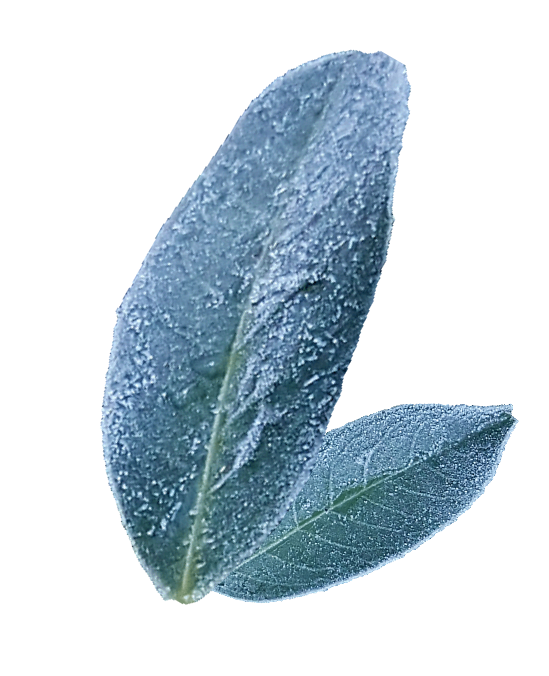
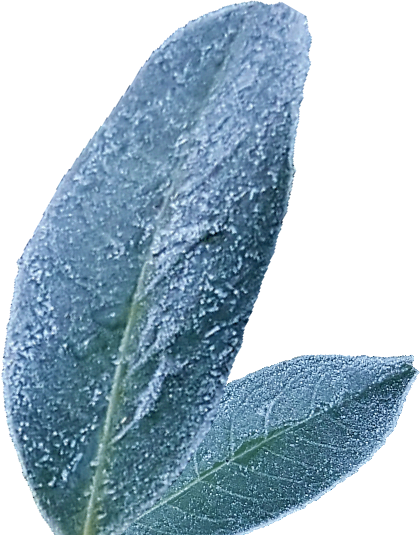
close

diff --git a/index.css b/index.css
@@ -60,6 +60,27 @@ article{
     margin-bottom: 5vh;
 }
 
+/*~~Decor~~*/
+.side{
+    display: flex;
+    flex-direction: row;
+    flex-wrap: nowrap;
+    align-items: flex-end;
+    justify-content: space-between;
+}
+
+.sideL{
+    display: block;
+    left: -80px;
+    position: relative;
+}
+
+.sideR{
+    display: block;
+    right: -80px;
+    position: relative;
+}
+
 /*~~~ Places ~~~*/
 
 #places{
@@ -229,6 +250,10 @@ textarea{
         margin-bottom: 6vw;
         margin-top: 0;
         padding: 5vw;
+    }
+
+    .side{
+        display: none3;
     }
 
     /*~~Places~~*/

diff --git a/index.html b/index.html
@@ -46,6 +46,11 @@
 
                 <a href="404.html"class="intro button"><h5>Learn more</h5></a>
             </article>
+
+            <section class="side">
+                <img src="/img/leaves/tadaL.png" class="sideL">
+                <img src="/img/leaves/tadaR.png" class="sideR">
+            </section>
         </section>
 
     <!--PLACES-->
